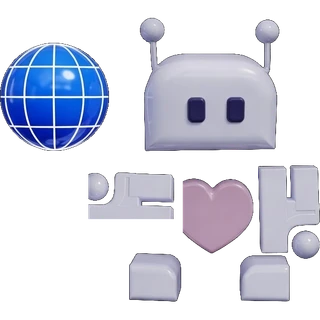
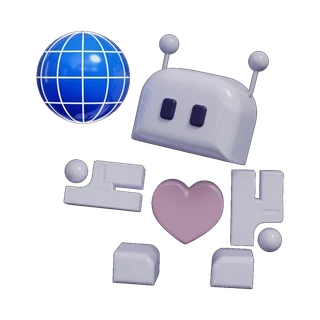
feat(open-web-vectors): glance at the globe, pad the still
Head turns toward the orb. Extra transparent padding plus a left
shift keep the heart and hanging hand inside the hero instead of
clipped by overflow:hidden.

diff --git a/site/templates/open-web-vectors.html b/site/templates/open-web-vectors.html
@@ -64,8 +64,8 @@
         </g>
       </svg>
       <div class="owv-orbit-scrim"></div>
-      <img class="owv-orbit-robot" src="/images/robot-orbit-520.webp?v=gap"
-           srcset="/images/robot-orbit-320.webp?v=gap 320w, /images/robot-orbit-520.webp?v=gap 520w"
+      <img class="owv-orbit-robot" src="/images/robot-orbit-520.webp?v=glance"
+           srcset="/images/robot-orbit-320.webp?v=glance 320w, /images/robot-orbit-520.webp?v=glance 520w"
            sizes="200px" width="520" height="520" alt="" loading="lazy" decoding="async">
     </div>
     <div class="container">
@@ -479,12 +479,16 @@
 }
 .owv-orbit-robot {
     position: absolute;
-    left: 50%;
+    /* 50% -> 47%: the still is wider now (globe on the left, hanging hand on
+       the right). Centering it in the orbit shoved the heart and the right
+       hand off the hero's overflow:hidden right edge. */
+    left: 47%;
     top: 50%;
     /* 34% -> 59.5%: 1.75x. The robot is the subject now that the satellites
        are gone, so it carries the composition rather than sitting inside it. */
     width: 59.5%;
     height: auto;
+    object-fit: contain;
     /* ⚠ The vertical fit CANNOT be done with `top` alone.
        The robot is sized in vw (65vw x 59.5%) but the hero's height is fixed by
        its content at ~813px. So the robot grows with the viewport while the
